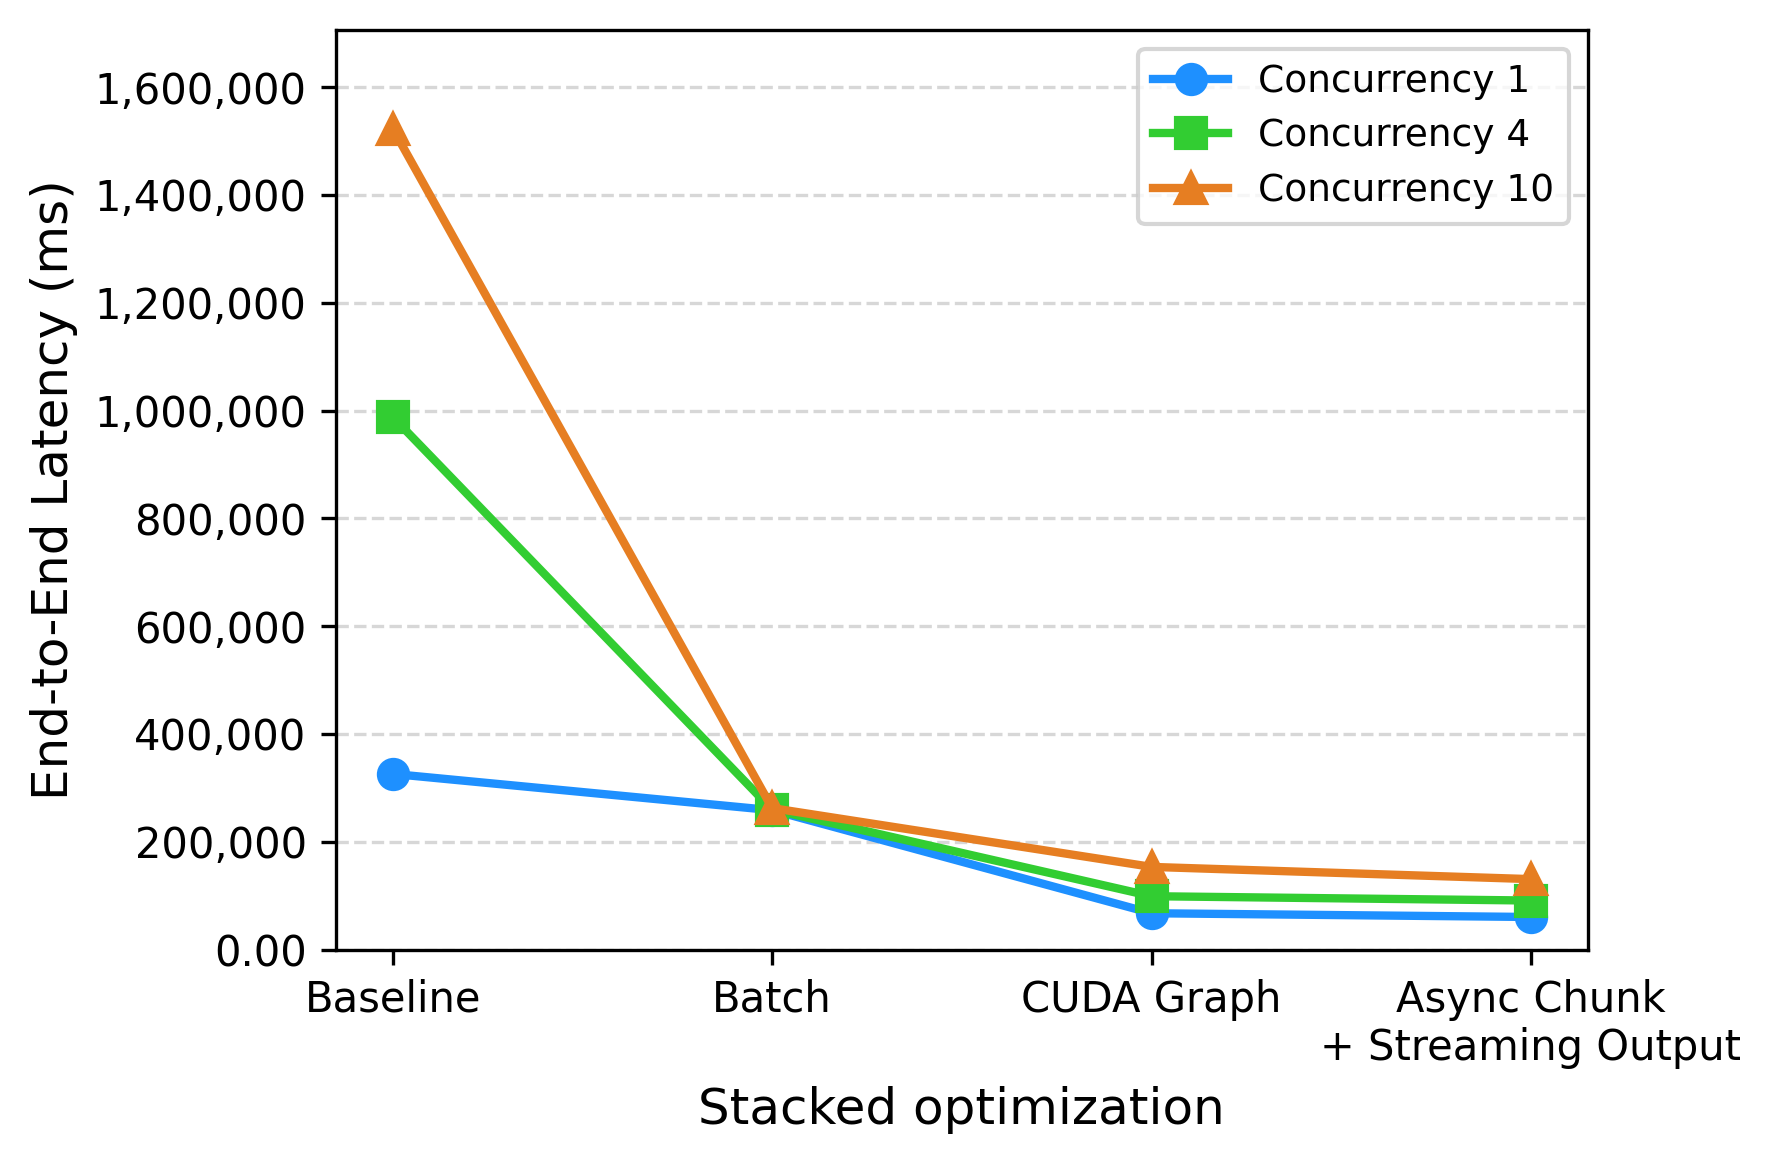
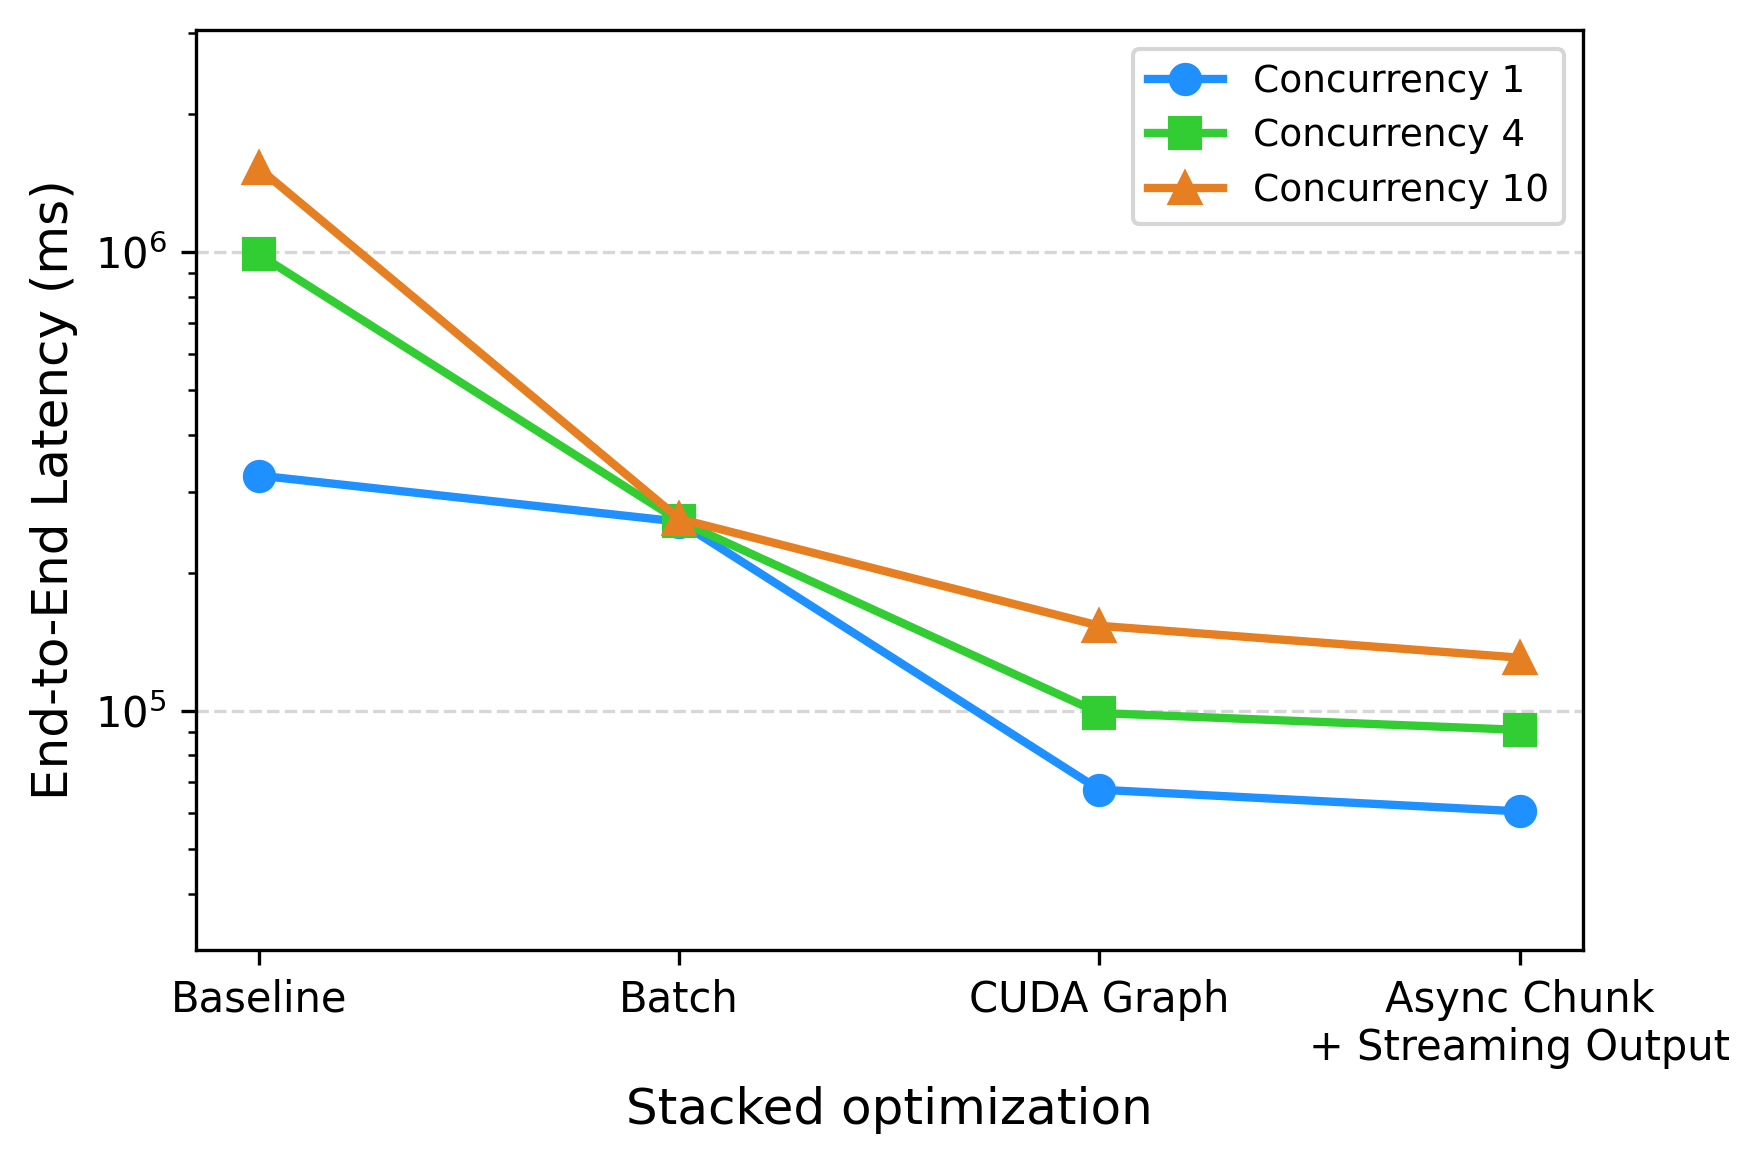
qwen3 omni blog

diff --git a/docs/design/plot_summary_line_charts.py b/docs/design/plot_summary_line_charts.py
@@ -47,10 +47,16 @@ def y_formatter_ms(x_val, pos):
     return f"{x_val:.2f}"
 
 
-def make_line_chart(ylabel, data_by_conc, unit_label, outpath, y_formatter=None):
+def make_line_chart(ylabel, data_by_conc, unit_label, outpath, y_formatter=None, use_log_scale=False):
     fig, ax = plt.subplots(figsize=(6, 4))
     all_vals = [v for vals in data_by_conc.values() for v in vals]
-    y_max = max(all_vals) * 1.12
+    if use_log_scale:
+        ax.set_yscale("log")
+        lo, hi = max(1, min(all_vals) * 0.5), max(all_vals) * 2
+        ax.set_ylim(lo, hi)
+    else:
+        y_max = max(all_vals) * 1.12
+        ax.set_ylim(0, y_max)
 
     for idx, conc in enumerate(CONCURRENCIES):
         vals = data_by_conc[conc]
@@ -67,10 +73,9 @@ def make_line_chart(ylabel, data_by_conc, unit_label, outpath, y_formatter=None)
     ax.set_xticklabels(X_LABELS)
     ax.set_ylabel(ylabel, fontsize=12)
     ax.set_xlabel("Stacked optimization", fontsize=12)
-    if y_formatter:
+    if y_formatter and not use_log_scale:
         ax.yaxis.set_major_formatter(FuncFormatter(y_formatter))
     ax.grid(axis="y", linestyle="--", alpha=0.5)
-    ax.set_ylim(0, y_max)
     ax.legend(loc="upper right", fontsize=9, frameon=True)
     plt.tight_layout()
     plt.savefig(outpath, dpi=300, bbox_inches="tight")
@@ -85,6 +90,7 @@ def main():
         "ms",
         FIG_DIR / "Summary_E2EL_ms_vs_features.png",
         y_formatter=y_formatter_ms,
+        use_log_scale=True,
     )
     make_line_chart(
         "Time to First Audio (ms)",
@@ -92,6 +98,7 @@ def main():
         "ms",
         FIG_DIR / "Summary_TTFP_ms_vs_features.png",
         y_formatter=y_formatter_ms,
+        use_log_scale=True,
     )
     make_line_chart(
         "Real-Time Factor",

diff --git a/docs/design/plot_vllm_omni_vs_transformers.py b/docs/design/plot_vllm_omni_vs_transformers.py
@@ -56,13 +56,14 @@ def make_chart(title, ylabel, labels, values, outpath, use_log_scale=False):
 
 
 def main():
-    labels = ["vLLM-Omni (streaming)", "HF transformers (offline)"]
+    # 左侧：HF transformers，右侧：vLLM-Omni
+    labels = ["HF transformers (offline)", "vLLM-Omni (streaming)"]
 
     make_chart(
         "E2E Latency (Single Request)",
         "End-to-End Latency (s)",
         labels,
-        [23.78, 336.10],
+        [336.10, 23.78],
         FIG_DIR / "E2EL_s_vllm_omni_vs_transformers.png",
         use_log_scale=True,
     )
@@ -70,7 +71,7 @@ def main():
         "Streaming Latency (TTFP)",
         "Time to First Audio (s)",
         labels,
-        [0.934, 336.10],
+        [336.10, 0.934],
         FIG_DIR / "TTFP_s_vllm_omni_vs_transformers.png",
         use_log_scale=True,
     )
@@ -78,7 +79,7 @@ def main():
         "Real-Time Factor (RTF) (Single Request)",
         "Real-Time Factor",
         labels,
-        [0.32, 3.776],
+        [3.776, 0.32],
         FIG_DIR / "RTF_vllm_omni_vs_transformers.png",
     )
     print("All three charts saved to docs/design/figures/")
